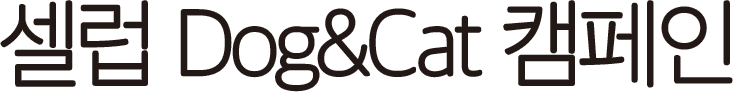
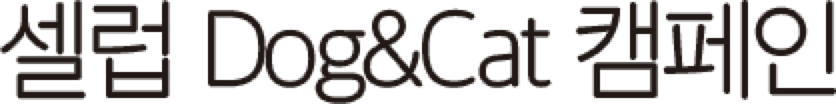
메인 수정중

diff --git a/index.html b/index.html
@@ -118,7 +118,7 @@
 	<template id="orderbyTemplate">
 		<a class="orderby" href="javacript:void(0)" v-bind:class="{ 'is-active' : activeOrderbyName === orderby }" v-on:click="clickEvent(orderby)">{{ orderby }}</a>
 	</template>
-	<template id="categoryTemplate">
+	<template id="campaignCategoryTemplate">
 		<!--	v-bind:class="activeIndex == cateInfo.idx ? 'is-active' : ''"-->
 		<li class="cate">
 			<a :data-name="cateInfo.name" v-on:click="clickEvent(cateInfo.idx, cateInfo.name, cateInfo.groupIdx)">
@@ -126,9 +126,9 @@
 			</a>
 		</li>
 	</template>
-	<template id="categoryContainerTemplate">
+	<template id="campaignCategoryContainerTemplate">
 		<ul>
-			<category-component v-for="(cate, index) in cateList" v-bind:cate-info="cate" :key="cate.idx" v-on:cate-click="setCate"></category-component>
+			<campaign-category-component v-for="(cate, index) in cateList" v-bind:cate-info="cate" :key="cate.idx" v-on:cate-click="setCate"></campaign-category-component>
 		</ul>
 	</template>
 	<!-- vue template -->
@@ -199,8 +199,8 @@
 					</div>
 					<div class="campaign-list">
 						<div class="cate-wrap">
-							<category-container :cate-list="cateList1" class="cate-list _01"></category-container>
-							<category-container :cate-list="cateList2" class="cate-list _02"></category-container>
+							<campaign-category-container :cate-list="cateList1" class="cate-list _01"></campaign-category-container>
+							<campaign-category-container :cate-list="cateList2" class="cate-list _02"></campaign-category-container>
 						</div>
 						<div class="orderby-wrap">
 							<orderby-component orderby="등록순"></orderby-component>
@@ -211,9 +211,23 @@
 								<campaign-container :campaign-list="campaignList"></campaign-container>
 							</ul>
 						</div>
+						<button type="button" class="button list-more black-border shadow" v-on:click="loadMoreCampaign">
+							<span>더보기+</span>
+						</button>
 					</div>
+					<div class="page-point"></div>
 				</section>
 				<section class="discount">
+					<div class="title-area">
+						<h2><img src="./images/discount_title.png" alt=""></h2>
+						<p>캠페인 속 상품 지금 바로 만나보고 싶다면</p>
+						<p>캠페인 기간에만 특별진행되는 셀럽D.C를 받아보세요!</p>
+					</div>
+					<div class="discount-list">
+						<div class="cate-wrap">
+							
+						</div>
+					</div>
 				</section>
 			</div>
 		</div>
@@ -277,7 +291,6 @@
 			},
 			mounted: function() {
 //				console.log(this.campaignInfo);
-				console.log(this);
 			},
 			updated: function() {
 			},
@@ -318,8 +331,8 @@
 			}
 		})
 		
-		Vue.component('category-component', {
-			template: '#categoryTemplate',
+		Vue.component('campaign-category-component', {
+			template: '#campaignCategoryTemplate',
 			props: [ 'cateInfo' ],
 			data() {
 //				return shareData;
@@ -341,8 +354,8 @@
 //				console.log(this);
 			}
 		})
-		Vue.component('category-container', {
-			template: '#categoryContainerTemplate',
+		Vue.component('campaign-category-container', {
+			template: '#campaignCategoryContainerTemplate',
 			props: [ 'cateList' ],
 			data() {
 				return {
@@ -423,6 +436,7 @@
 			el: '#app',
 			data() {
 				return {
+					currentRoute: window.location.pathname,
 					scrollY: 0,
 					sectionPosition: [],
 					sectionNavPosition: [],
@@ -449,13 +463,13 @@
 					],
 					campaignList: [
 						{ idx: 1, type: 'dog', dateStart: '2018/06/25', dateEnd: '2018/06/30', announceDate: '2018/07/03', request: 100, recruit: 30, imgSrc: './images/campaign_sample_01.jpg', title: '위 러브캣 LEMON BALL 놀이장난감', desc: '상품과 고양이를 함께 인증해주세요' },
-						{ idx: 2, type: 'cat', dateStart: '2018/06/21', dateEnd: '2018/06/28', announceDate: '2018/07/01', request: 17, recruit: 30, imgSrc: './images/campaign_sample_01.jpg', title: '위 러브캣 LEMON BALL 놀이장난감', desc: '상품과 고양이를 함께 인증해주세요' },
-						{ idx: 3, type: 'cat', dateStart: '2018/06/23', dateEnd: '2018/06/25', announceDate: '2018/07/02', request: 17, recruit: 30, imgSrc: './images/campaign_sample_01.jpg', title: '위 러브캣 LEMON BALL 놀이장난감', desc: '상품과 고양이를 함께 인증해주세요' },
-						{ idx: 4, type: 'dog', dateStart: '2018/06/19', dateEnd: '2018/06/26', announceDate: '2018/06/27', request: 17, recruit: 30, imgSrc: './images/campaign_sample_01.jpg', title: '위 러브캣 LEMON BALL 놀이장난감', desc: '상품과 고양이를 함께 인증해주세요' },
-						{ idx: 5, type: 'dog', dateStart: '2018/06/19', dateEnd: '2018/06/26', announceDate: '2018/06/27', request: 17, recruit: 30, imgSrc: './images/campaign_sample_01.jpg', title: '위 러브캣 LEMON BALL 놀이장난감', desc: '상품과 고양이를 함께 인증해주세요' },
-						{ idx: 6, type: 'cat', dateStart: '2018/06/19', dateEnd: '2018/06/26', announceDate: '2018/06/27', request: 17, recruit: 30, imgSrc: './images/campaign_sample_01.jpg', title: '위 러브캣 LEMON BALL 놀이장난감', desc: '상품과 고양이를 함께 인증해주세요' },
-						{ idx: 7, type: 'dog', dateStart: '2018/06/19', dateEnd: '2018/06/26', announceDate: '2018/06/27', request: 17, recruit: 30, imgSrc: './images/campaign_sample_01.jpg', title: '위 러브캣 LEMON BALL 놀이장난감', desc: '상품과 고양이를 함께 인증해주세요' },
-						{ idx: 8, type: 'cat', dateStart: '2018/06/19', dateEnd: '2018/06/26', announceDate: '2018/06/27', request: 17, recruit: 30, imgSrc: './images/campaign_sample_01.jpg', title: '위 러브캣 LEMON BALL 놀이장난감', desc: '상품과 고양이를 함께 인증해주세요' }
+						{ idx: 2, type: 'cat', dateStart: '2018/06/21', dateEnd: '2018/06/28', announceDate: '2018/07/01', request: 20, recruit: 30, imgSrc: './images/campaign_sample_01.jpg', title: '위 러브캣 LEMON BALL 놀이장난감', desc: '상품과 고양이를 함께 인증해주세요' },
+						{ idx: 3, type: 'cat', dateStart: '2018/06/23', dateEnd: '2018/06/25', announceDate: '2018/07/02', request: 22, recruit: 60, imgSrc: './images/campaign_sample_01.jpg', title: '위 러브캣 LEMON BALL 놀이장난감', desc: '상품과 고양이를 함께 인증해주세요' },
+						{ idx: 4, type: 'dog', dateStart: '2018/06/19', dateEnd: '2018/06/29', announceDate: '2018/06/27', request: 1, recruit: 30, imgSrc: './images/campaign_sample_01.jpg', title: '위 러브캣 LEMON BALL 놀이장난감', desc: '상품과 고양이를 함께 인증해주세요' },
+						{ idx: 5, type: 'dog', dateStart: '2018/06/19', dateEnd: '2018/06/27', announceDate: '2018/06/27', request: 30, recruit: 70, imgSrc: './images/campaign_sample_01.jpg', title: '위 러브캣 LEMON BALL 놀이장난감', desc: '상품과 고양이를 함께 인증해주세요' },
+						{ idx: 6, type: 'cat', dateStart: '2018/06/19', dateEnd: '2018/06/25', announceDate: '2018/06/27', request: 15, recruit: 20, imgSrc: './images/campaign_sample_01.jpg', title: '위 러브캣 LEMON BALL 놀이장난감', desc: '상품과 고양이를 함께 인증해주세요' },
+						{ idx: 7, type: 'dog', dateStart: '2018/06/19', dateEnd: '2018/06/30', announceDate: '2018/06/27', request: 9, recruit: 15, imgSrc: './images/campaign_sample_01.jpg', title: '위 러브캣 LEMON BALL 놀이장난감', desc: '상품과 고양이를 함께 인증해주세요' },
+						{ idx: 8, type: 'cat', dateStart: '2018/06/19', dateEnd: '2018/07/05', announceDate: '2018/06/27', request: 19, recruit: 30, imgSrc: './images/campaign_sample_01.jpg', title: '위 러브캣 LEMON BALL 놀이장난감', desc: '상품과 고양이를 함께 인증해주세요' }
 					]
 				}
 				
@@ -474,11 +488,17 @@
 						this.currentSection = 'discount';
 						this.$refs.navActiveBar.setAttribute('style', 'left:'+this.$refs.sectionNav.querySelectorAll('li')[0].offsetLeft+'px; width:'+this.$refs.sectionNav.querySelectorAll('li')[0].offsetWidth+'px');
 					}
+				},
+				loadMoreCampaign: function() {
+//					campaignList 배열에 push
+					console.log("캠페인 추가 불러오기");
 				}
 			},
 			created: function() {
-//				console.log("created");
 				window.addEventListener('scroll', this.handleScroll);
+				var query = window.location.search.substring(1);
+				var qs = parse_query_string(query);
+				console.log(qs);
 			},
 			mounted: function() {
 				this.$nextTick(function() {
@@ -493,6 +513,8 @@
 //				console.log("섹션위치:"+this.sectionPosition);
 //				console.log("넓이:"+this.sectionNavWidth);
 //				console.log("위치:"+this.sectionNavPosition);
+				
+//				캠페인리스트 불러오기 (초기 갯수 설정)
 			},
 			beforeUpdate: function() {
 //				console.log("beforeUpdate");
@@ -507,6 +529,29 @@
 		})
 		
 		
+//		쿼리스트링 추출 코드
+		function parse_query_string(query) {
+			var vars = query.split("&");
+			var query_string = {};
+			for (var i = 0; i < vars.length; i++) {
+				var pair = vars[i].split("=");
+				var key = decodeURIComponent(pair[0]);
+				var value = decodeURIComponent(pair[1]);
+				// If first entry with this name
+				if (typeof query_string[key] === "undefined") {
+					query_string[key] = decodeURIComponent(value);
+					// If second entry with this name
+				} else if (typeof query_string[key] === "string") {
+					var arr = [query_string[key], decodeURIComponent(value)];
+					query_string[key] = arr;
+					// If third or later entry with this name
+				} else {
+					query_string[key].push(decodeURIComponent(value));
+				}
+			}
+			return query_string;
+		}
+
 	</script>
 </body>
 </html>

diff --git a/css/style.css b/css/style.css
@@ -128,26 +128,37 @@ section.index .page-point {
 	background: url(../images/index_page_point.png) center / 251px 68px no-repeat;
 }
 section.campaign {
-	padding: 178px 0 69px;
+	padding: 180px 0 154px;
 	background: #ff8840;
 	z-index: 1;
 }
-section.campaign .title-area {
-	text-align: center;
-	margin-bottom: 60px;
+section.campaign .page-point {
+	position: absolute;
+	bottom: -35px;
+	left: 50%;
+	margin-left: -125px;
+	width: 251px;
+	height: 69px;
+	background: url(../images/campaign_page_point.png) center / 251px 69px no-repeat;
 }
-section.campaign .title-area h2 {
+section > .title-area {
+	text-align: center;
+}
+section > .title-area h2 {
 	margin-bottom: 20px;
 }
-section.campaign .title-area h2 img {
-	width: 366px;
+section.campaign > .title-area {
+	margin-bottom: 68px;
 }
-section.campaign .title-area p {
+section.campaign > .title-area h2 img {
+	width: 418px;
+}
+section > .title-area p {
 	font-size: 18px;
 	font-weight: 300;
 	line-height: 24px;
 }
-section.campaign .title-area p:last-child {
+section > .title-area p:last-child {
 	font-weight: 400;
 }
 section.campaign .campaign-list {
@@ -390,6 +401,18 @@ section.campaign .list-container.campaign .campaignEl .frame .hover .button span
 	font-weight: 700;
 	color: #ff8840;
 }
+section.campaign .list-more {
+	display: block;
+	width: 230px;
+	margin: 38px auto 0;
+}
+section.campaign .list-more span {
+	display: inline-block;
+	padding: 13px 0;
+	color: #ff8840;
+	font-size: 22px;
+	letter-spacing: 1.5px;
+}
 
 .campaign-over-transition-enter-active {
 	transition: all 0.15s ease;
@@ -399,6 +422,19 @@ section.campaign .list-container.campaign .campaignEl .frame .hover .button span
 }
 .campaign-over-transition-enter, .campaign-over-transition-leave-to {
 	opacity: 0;
+}
+
+section.discount {
+	padding: 163px 0 119px;
+}
+section.discount > .title-area {
+	margin-bottom: 45px;
+}
+section.discount > .title-area h2 {
+	margin-bottom: 34px;
+}
+section.discount > .title-area h2 img {
+	width: 413px;
 }
 
 .content.main .section-nav {
